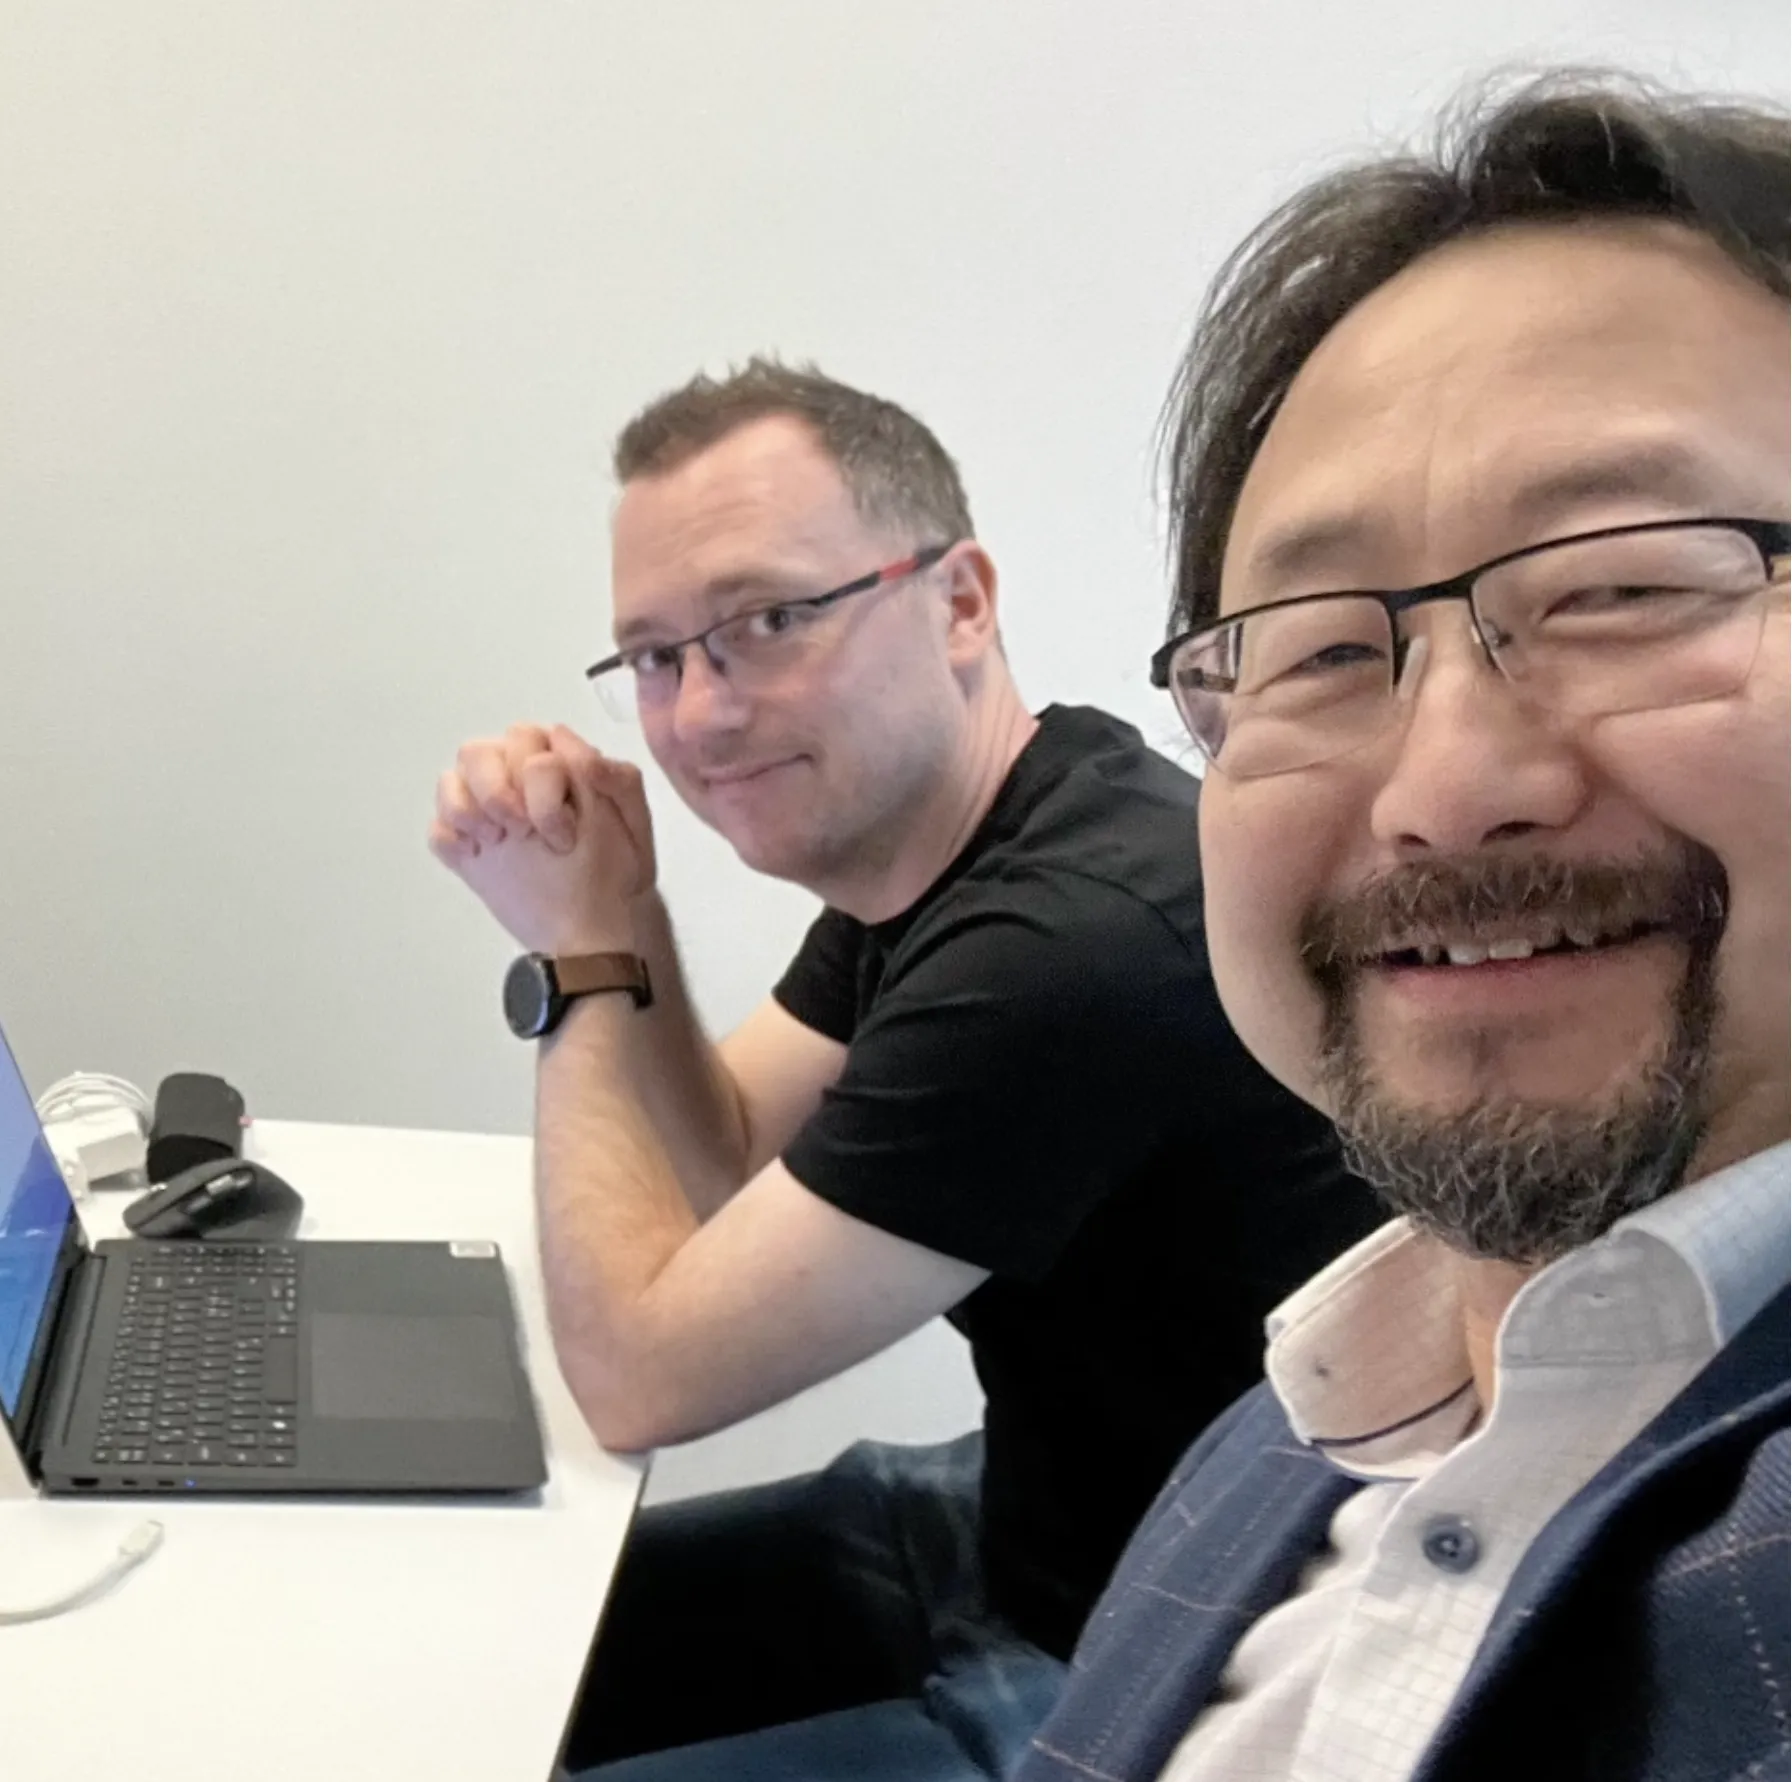
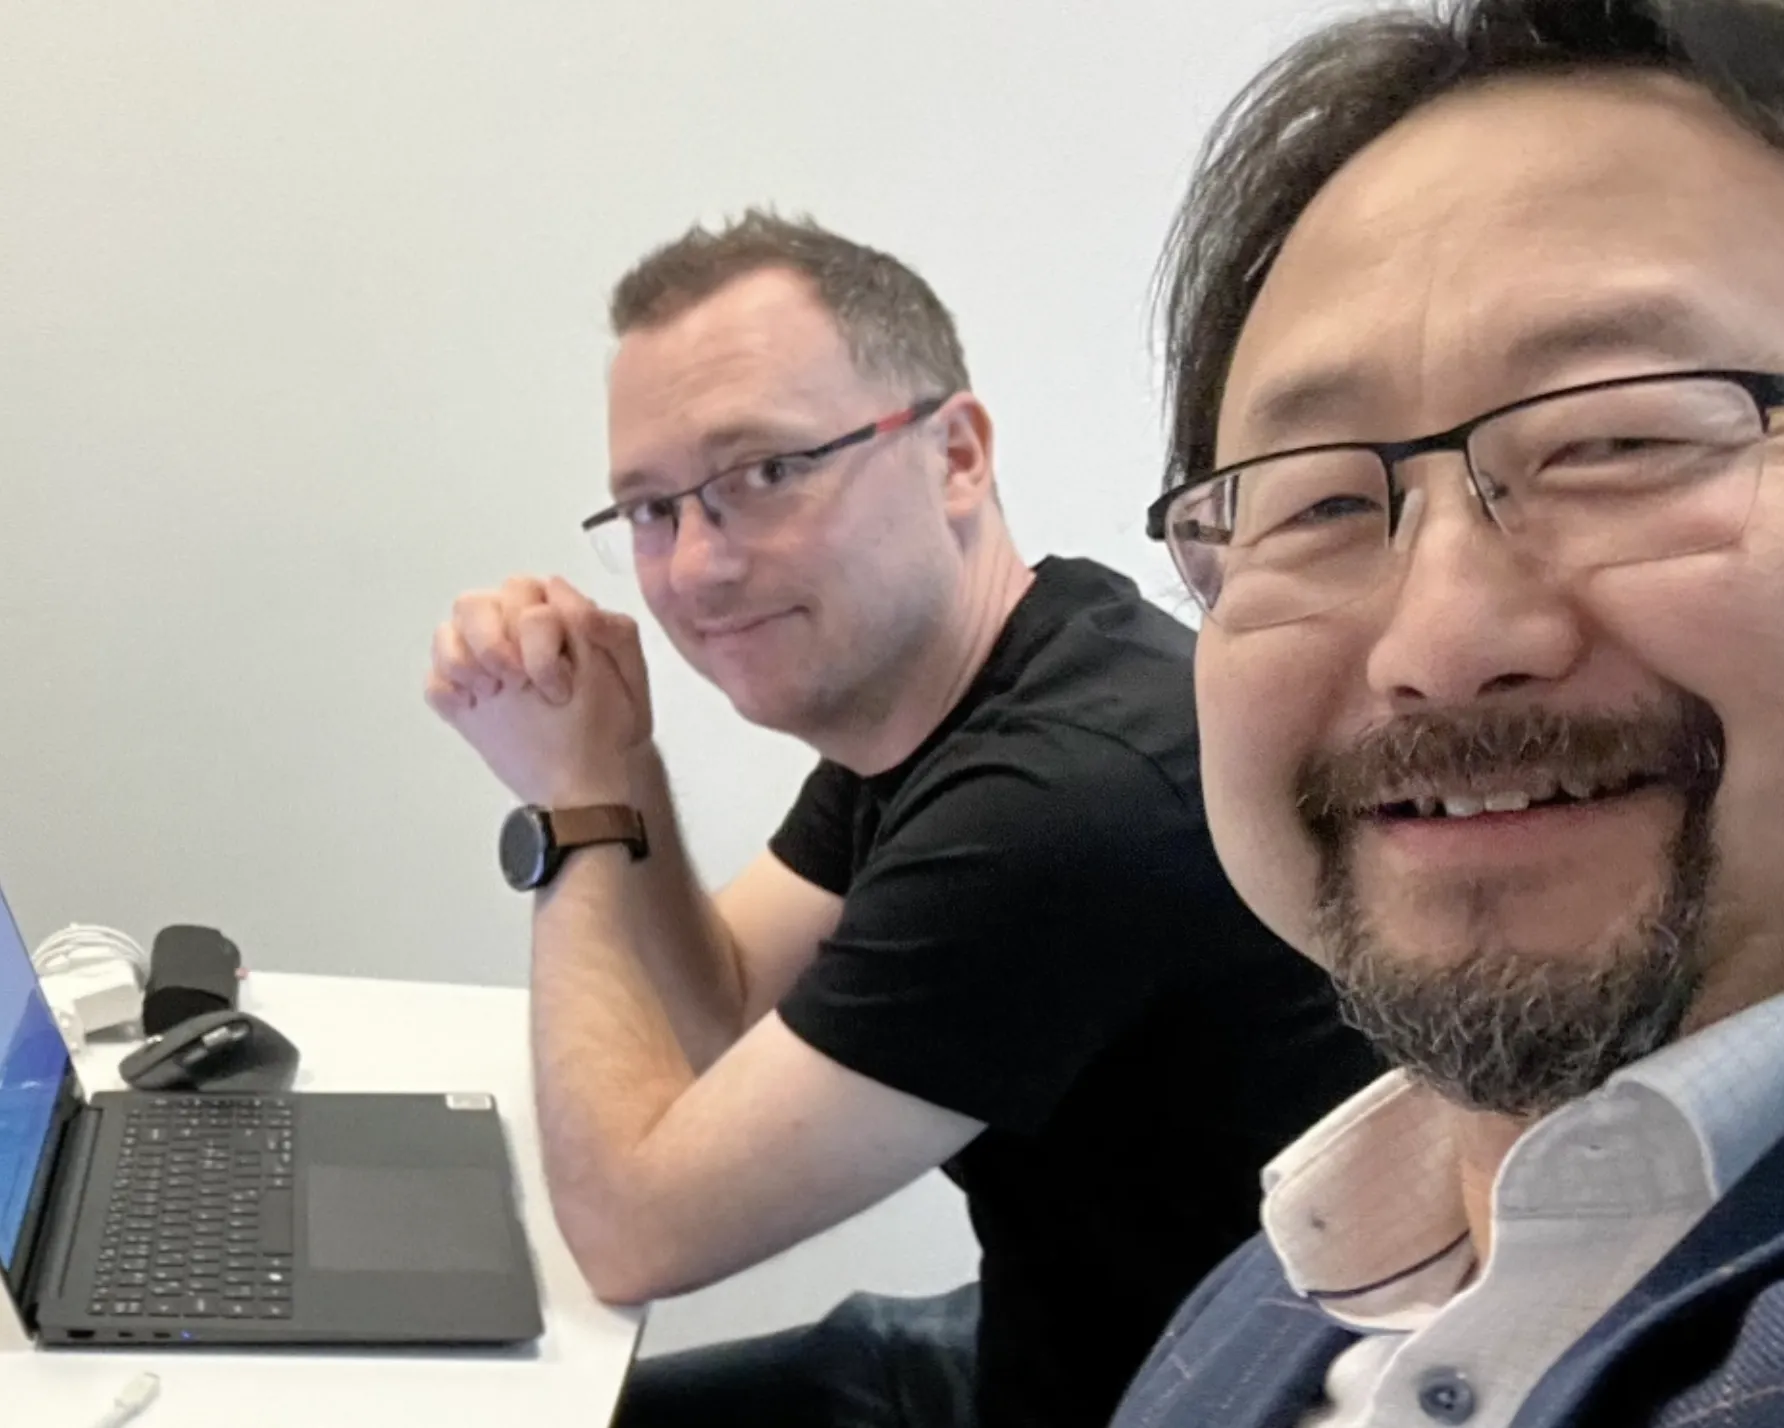
Bildstrip: uppdaterad planning-bild med object-fit cover

diff --git a/index.html b/index.html
@@ -451,10 +451,10 @@
       <figure class="culture-photo reveal reveal-delay-2">
         <img src="images/kontoret.webp" alt="Devay-konsult på kontoret i Karlskrona" width="800" height="600" loading="lazy">
       </figure>
-      <figure class="culture-photo culture-photo--contain reveal reveal-delay-3">
+      <figure class="culture-photo reveal reveal-delay-3">
         <picture>
           <source srcset="images/planning.webp" type="image/webp">
-          <img src="images/planning.png" alt="Devay-team i planering" width="1792" height="1782" loading="lazy">
+          <img src="images/planning.png" alt="Devay-team i planering" width="1784" height="1428" loading="lazy">
         </picture>
       </figure>
     </div>
